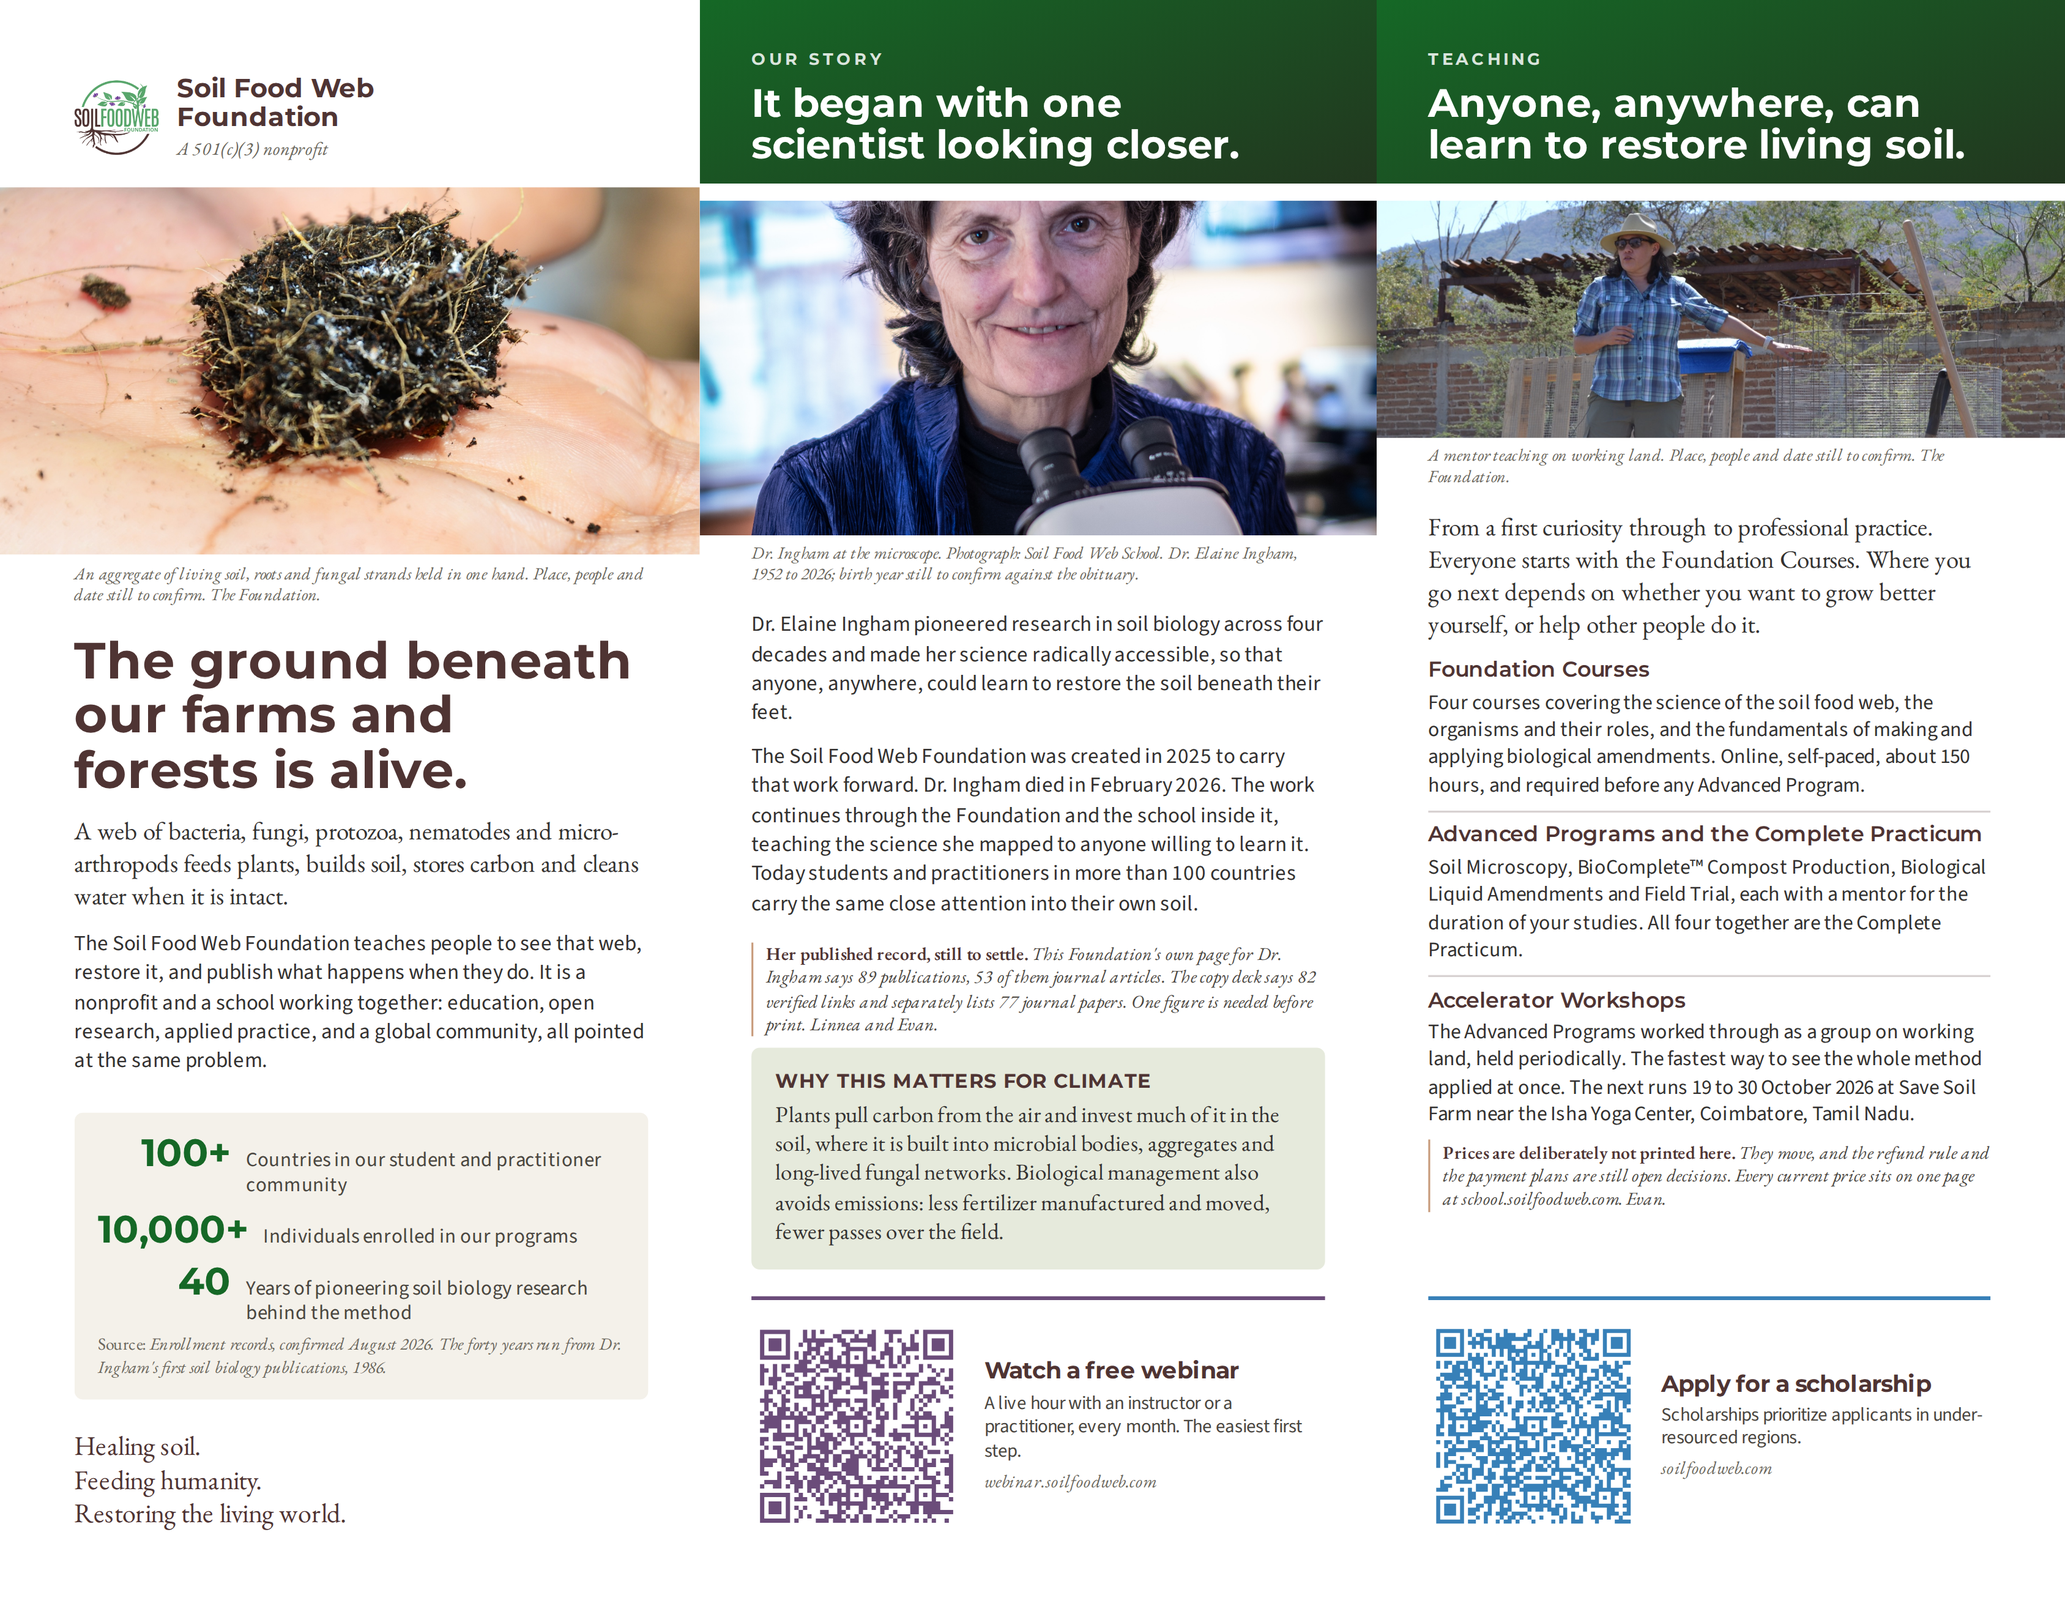
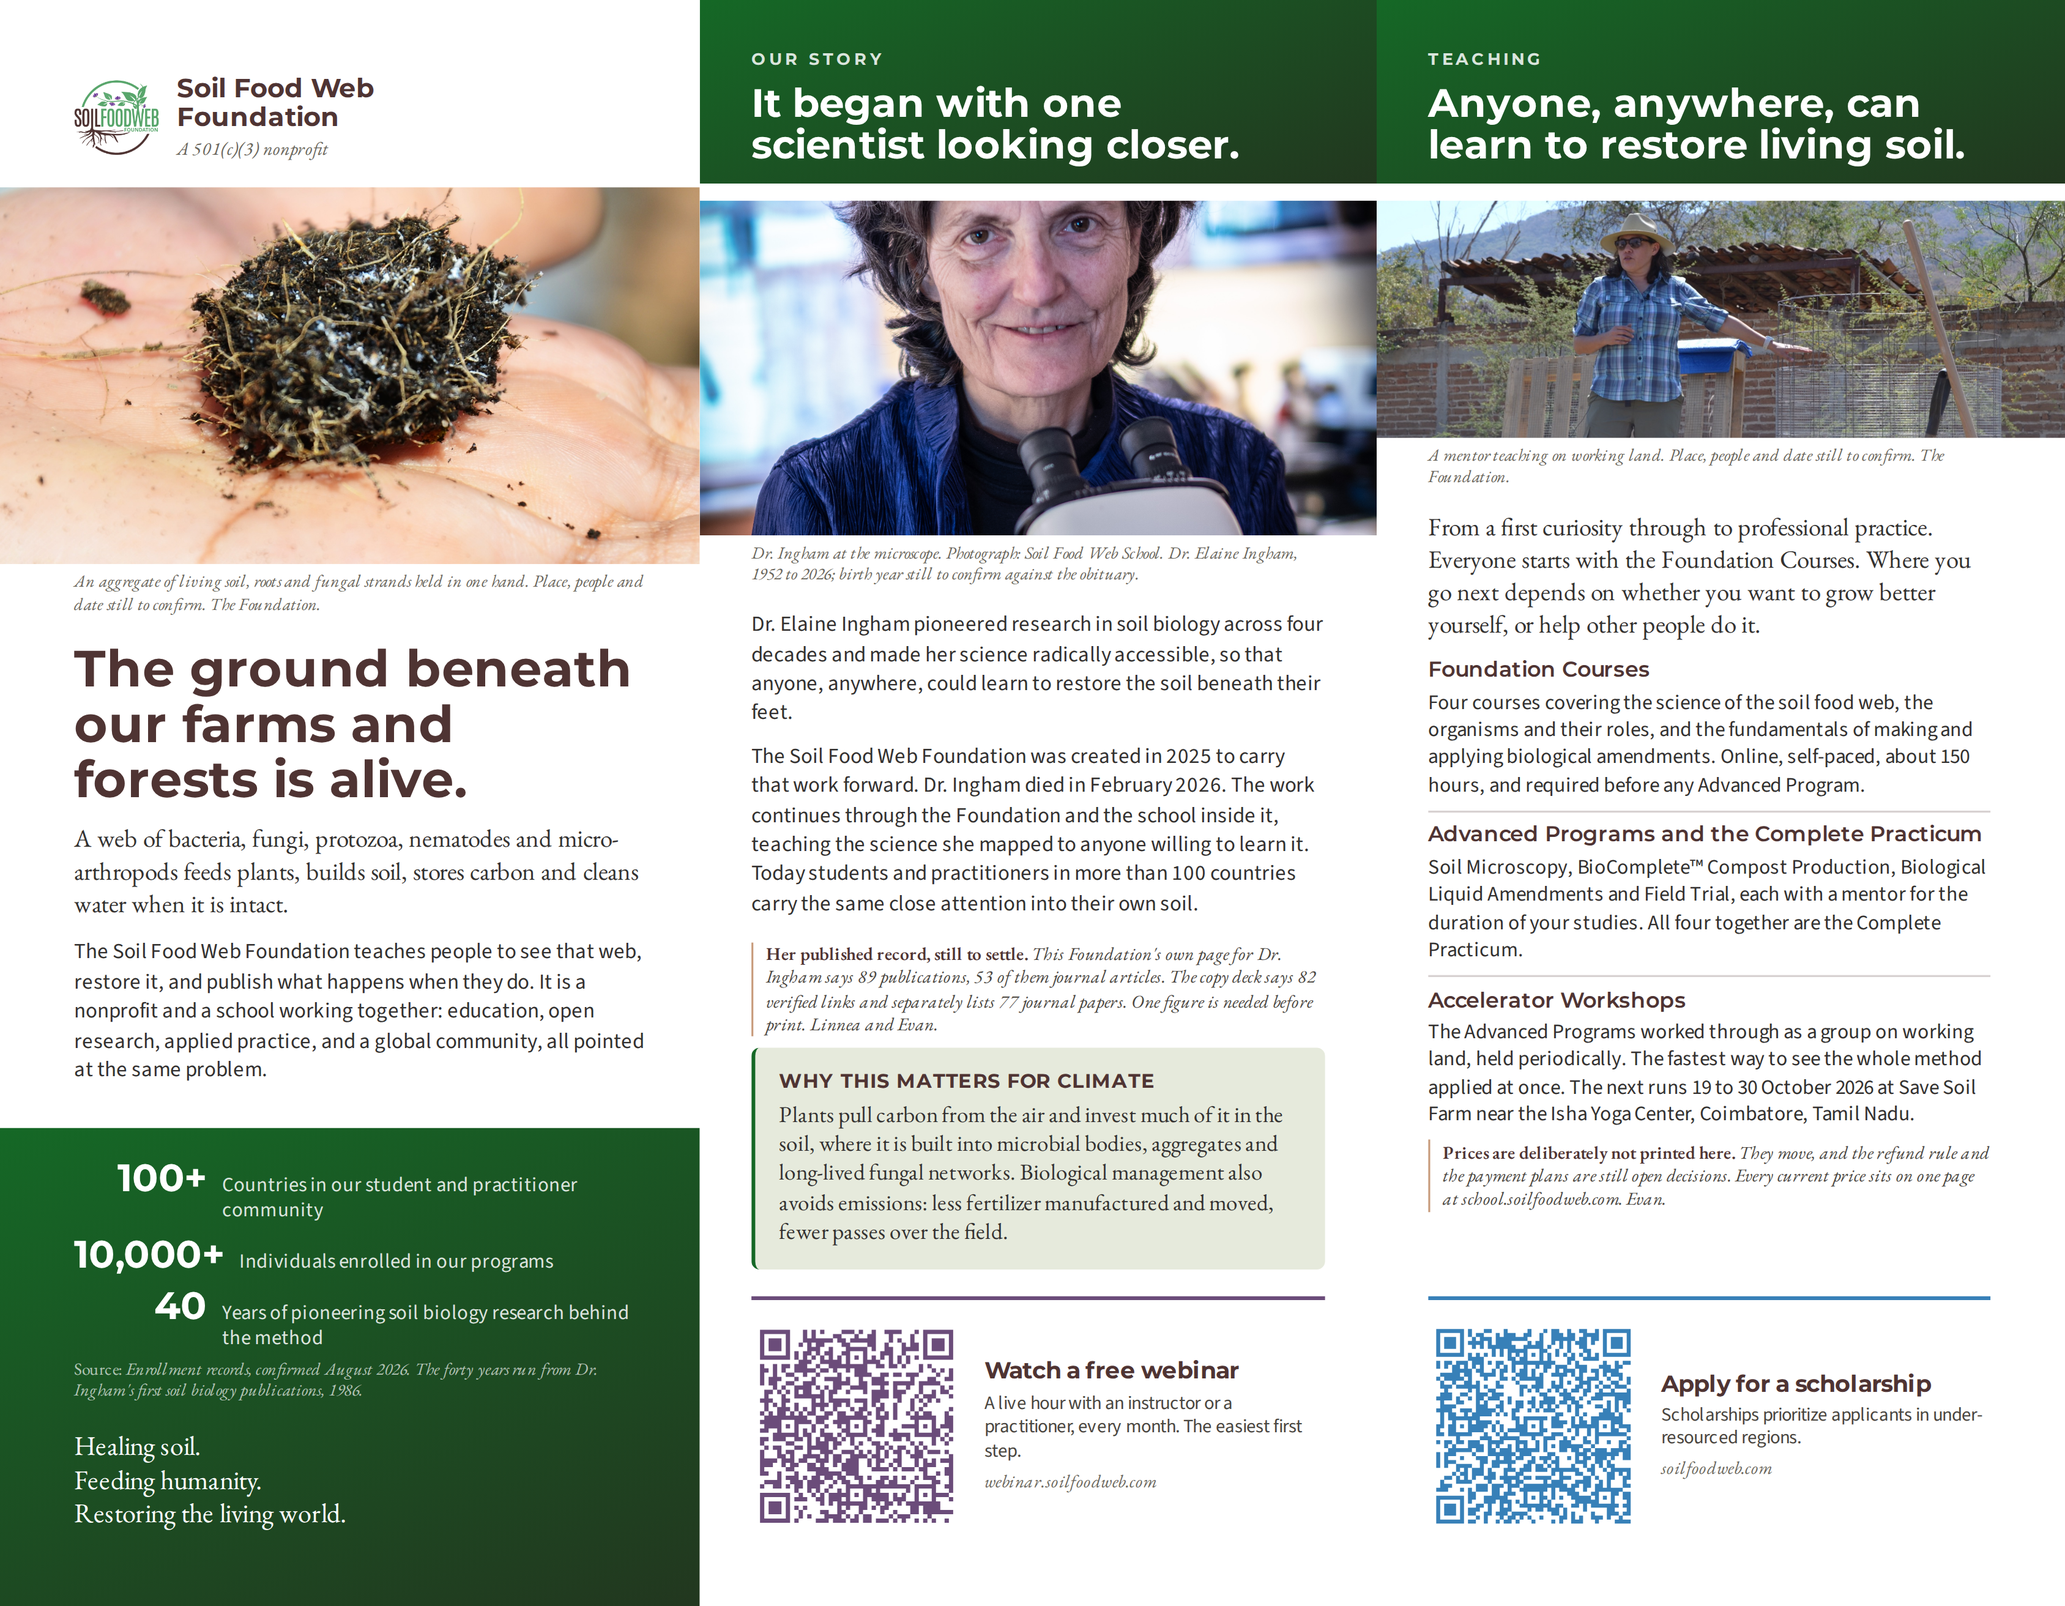
Give the trifold colour fields, a closing block and a fold carry
Design pass on Linnea's direction: background colours, panels, fades, and a
block that carries across the fold. One idea at three sizes, all Food Web
Green into moss.

- .banner, already in, opens each pillar panel reversed out
- .field, new, is a bounded block inside a white panel. The cover's stats and
  tagline now sit in one, bleeding to the foot, so the cover has colour
  instead of ending in white
- .panel--field, new, gives a whole panel to the colour. Panel 6 is green
  throughout: white type, the photo fading into the field, the QR on a white
  tile because a green code on a green panel cannot scan, and the legal block
  and tagline reversed out
- .carry continues panel 6's colour left across the crease so the field starts
  before the fold rather than at it, sized to panel 5's right padding so no
  copy sits on it

A background costs no height, which is what makes a whole green panel possible
on a sheet where four of six panels have under twelve points spare. Bounded
fields do cost their padding: the cover overflowed by 28 points on the first
pass and the photograph came back down to pay for the block.

The photo fade is scoped to the colour panel. On a white panel it landed behind
the caption and turned grey italic into grey on a grey-green band, which is how
it first rendered. Captions now carry a z-index and clear it either way.

Cards are pale green with a green left edge rather than flat cream boxes.
[…]

Changed region(s): [[0.0, 0.125, 0.3422, 1.0], [0.3733, 0.656, 0.6222, 0.781], [0.3111, 0.2187, 0.3422, 0.2499]]

diff --git a/Trifold Design/build/trifold.css b/Trifold Design/build/trifold.css
@@ -226,13 +226,118 @@ h3 {
 .banner .eyebrow--legacy { color: rgba(255, 255, 255, 0.86); }
 .banner h2 { color: #FFFFFF; margin-bottom: 0; line-height: 1.04; }
 
+/* --------------------------------------------------------------------------
+   Colour fields
+   --------------------------------------------------------------------------
+   A field is a block of Food Web Green running to moss, carrying white type.
+   Three sizes of the same idea:
+
+     .banner        the eyebrow and heading at the top of a pillar panel
+     .field         a bounded block inside a white panel
+     .panel--field  a whole panel given over to the colour
+
+   A background costs no height, which is the reason a whole panel can turn
+   green on a sheet where four of the six panels have under 12 points spare.
+   Only the padding of a bounded field is new height. */
+.field {
+  margin-left: calc(var(--pad) * -1);
+  margin-right: calc(var(--pad) * -1);
+  padding: 0.16in var(--pad);
+  background: linear-gradient(158deg, var(--green) 0%, var(--moss) 100%);
+  color: #FFFFFF;
+}
+.panel--first .field { margin-left: calc((var(--pad) + var(--bleed)) * -1); padding-left: calc(var(--pad) + var(--bleed)); }
+.panel--last  .field { margin-right: calc((var(--pad) + var(--bleed)) * -1); padding-right: calc(var(--pad) + var(--bleed)); }
+.field--flush { margin-bottom: calc((var(--pad) + var(--bleed)) * -1); padding-bottom: calc(var(--pad) + var(--bleed)); }
+
+/* A whole panel in the colour. Everything that carries an ink token has to be
+   restated, or it keeps a colour tuned for white paper and disappears. */
+.panel--field {
+  background: linear-gradient(168deg, var(--green) 0%, var(--moss) 108%);
+  color: #FFFFFF;
+}
+.panel--field .banner { background: none; margin-bottom: 0.10in; padding-bottom: 0; }
+.panel--field h2, .panel--field h3 { color: #FFFFFF; }
+.panel--field .caption,
+.panel--field .source      { color: rgba(255, 255, 255, 0.70); }
+.panel--field .legal       { color: rgba(255, 255, 255, 0.82); }
+.panel--field .legal .addr { color: #FFFFFF; }
+.panel--field .tagline     { color: #FFFFFF; }
+.panel--field .hr          { border-top-color: rgba(255, 255, 255, 0.28); }
+.panel--field .qr--green   { border-top-color: rgba(255, 255, 255, 0.55); }
+.panel--field .qr .t       { color: #FFFFFF; }
+.panel--field .qr .d       { color: rgba(255, 255, 255, 0.82); }
+.panel--field .qr .h       { color: rgba(255, 255, 255, 0.66); }
+/* The code is Food Web Green and would vanish on its own panel, so it sits on
+   a white tile. A QR needs dark on light to scan at all. */
+.panel--field .qr img {
+  background: #FFFFFF;
+  padding: 0.055in;
+  border-radius: 0.035in;
+  width: 1.04in; height: 1.04in;
+}
+
+/* The figures block reversed out, for the cover's closing field. */
+.field .figures .n { color: #FFFFFF; }
+.field .figures .l { color: rgba(255, 255, 255, 0.86); }
+.field .source     { color: rgba(255, 255, 255, 0.68); }
+.field .tagline    { color: #FFFFFF; }
+
+/* A photograph in the colour panel fades into the field along its lower edge,
+   so the picture joins the green rather than sitting on it as a hard rectangle.
+
+   Only in the colour panel. On a white panel the same fade lands behind the
+   caption and turns it into grey type on a grey-green band, which is how it
+   first went out. The caption is lifted above the fade either way. */
+.figure { position: relative; }
+.panel--field .figure--fade::after {
+  content: "";
+  position: absolute; left: 0; right: 0; bottom: 0;
+  height: 0.7in;
+  background: linear-gradient(to bottom, rgba(34, 55, 31, 0) 0%, rgba(34, 55, 31, 0.92) 92%);
+  pointer-events: none;
+  z-index: 0;
+}
+.figure figcaption { position: relative; z-index: 1; }
+
+/* The fold carry.
+   Panel 6 is a colour field; this is the same field continuing left past the
+   crease, so the block reads as one shape folded rather than as a panel that
+   happens to be green. Width is panel 5's right padding exactly, so no copy
+   sits on it. Sheet geometry: panel 4 is wide + bleed, panel 5 is wide, so the
+   crease falls at (wide + bleed) + wide from the sheet's left edge. */
+.carry {
+  position: absolute;
+  top: 0;
+  bottom: 0;
+  left: calc(var(--w-wide) + var(--bleed) + var(--w-wide) - var(--pad));
+  width: var(--pad);
+  background: linear-gradient(168deg, var(--green) 0%, var(--moss) 108%);
+  border-top-left-radius: 0.22in;
+  border-bottom-left-radius: 0.22in;
+  z-index: 0;
+}
+.panel { z-index: 1; }
+.panel--field { background: none; }
+.panel--field::before {
+  content: "";
+  position: absolute; inset: 0;
+  background: linear-gradient(168deg, var(--green) 0%, var(--moss) 108%);
+  z-index: -1;
+}
+
 /* Organic Cream as a bounded rectangle behind a group, never as the page. */
 .card {
-  background: var(--panel);
+  background: var(--panel-green);
   padding: 0.12in 0.13in;
   border-radius: 0.045in;
+  border-left: 1.6pt solid var(--green);
 }
-.card--green { background: var(--panel-green); }
+.card--cream { background: var(--panel); border-left-color: var(--tan); }
+.panel--field .card {
+  background: rgba(255, 255, 255, 0.12);
+  border-left-color: rgba(255, 255, 255, 0.65);
+}
 
 /* Photographs. .figure--full reaches both panel edges; add --bleed-l or
    --bleed-r on a panel that sits against the outer trim. */

diff --git a/Trifold Design/build/outside.html b/Trifold Design/build/outside.html
@@ -23,8 +23,8 @@
         </div>
       </div>
 
-      <figure class="figure figure--full" style="margin-top:0.15in">
-        <img src="/img/hand-soil-roots-fungi.jpg" alt="" style="height:2.0in;object-position:50% 46%">
+      <figure class="figure figure--full figure--fade" style="margin-top:0.15in">
+        <img src="/img/hand-soil-roots-fungi.jpg" alt="" style="height:2.05in;object-position:50% 46%">
         <figcaption class="caption">An aggregate of living soil, roots and fungal
           strands held in one hand. Place, people and date still to confirm. The Foundation.</figcaption>
       </figure>
@@ -42,7 +42,7 @@
 
       <div class="spacer"></div>
 
-      <div class="card">
+      <div class="field field--flush">
         <div class="figures">
           <div class="row"><div class="n">100+</div><div class="l">Countries in our student and practitioner community</div></div>
           <div class="row"><div class="n">10,000+</div><div class="l">Individuals enrolled in our programs</div></div>
@@ -50,9 +50,8 @@
         </div>
         <p class="source">Enrollment records, confirmed August 2026. The forty
           years run from Dr. Ingham's first soil biology publications, 1986.</p>
+        <p class="tagline" style="margin-top:0.15in">Healing soil.<br>Feeding humanity.<br>Restoring the living world.</p>
       </div>
-
-      <p class="tagline" style="margin-top:0.16in">Healing soil.<br>Feeding humanity.<br>Restoring the living world.</p>
 
     </section>
 
@@ -64,7 +63,7 @@
         <h2>It began with one scientist looking closer.</h2>
       </div>
 
-      <figure class="figure figure--full">
+      <figure class="figure figure--full figure--fade">
         <img src="/img/Dr Elaine Ingham with Microscope.jpg" alt="" style="height:1.82in;object-position:50% 36%">
         <figcaption class="caption">Dr. Ingham at the microscope. Photograph:
           Soil Food Web School. Dr. Elaine Ingham, 1952 to 2026; birth year
@@ -118,7 +117,7 @@
         <h2>Anyone, anywhere, can learn to restore living soil.</h2>
       </div>
 
-      <figure class="figure figure--full">
+      <figure class="figure figure--full figure--fade">
         <img src="/img/uploads/Loida Teaching 3.JPG" alt="" style="height:1.29in;object-position:50% 22%">
         <figcaption class="caption">A mentor teaching on working land. Place,
           people and date still to confirm. The Foundation.</figcaption>

diff --git a/Trifold Design/build/inside.html b/Trifold Design/build/inside.html
@@ -12,6 +12,12 @@
 <div class="sheet" id="sheet">
   <div class="spread">
 
+    <!-- The colour of panel 6 spills left across the fold, so the field starts
+         before the crease rather than at it. Absolutely placed on the sheet,
+         sitting in panel 5's right padding column, so it never meets copy. -->
+    <div class="carry" aria-hidden="true"></div>
+
+
     <!-- ================= PANEL 4, RESEARCH ================= -->
     <section class="panel panel--wide panel--first" data-panel="4">
 
@@ -20,7 +26,7 @@
         <h2>The science is real, and we are opening it to the world.</h2>
       </div>
 
-      <figure class="figure figure--full">
+      <figure class="figure figure--full figure--fade">
         <img src="/img/Test tubes with sample_.jpg" alt="" style="height:1.18in;object-position:50% 50%">
         <figcaption class="caption">Soil samples beside the microscope. Place,
           people and date still to confirm. The Foundation.</figcaption>
@@ -78,7 +84,7 @@
         <h2>It works on real land, in the hands of real growers.</h2>
       </div>
 
-      <figure class="figure figure--full">
+      <figure class="figure figure--full figure--fade">
         <img src="/img/erc-rancho-cacachilas-agro.jpg" alt="" style="height:1.05in;object-position:50% 58%">
         <figcaption class="caption">Agroecology plots at Rancho Cacachilas.
           Place, people and date still to confirm. The Foundation. This is the
@@ -134,14 +140,14 @@
     </section>
 
     <!-- ================= PANEL 6, COMMUNITY (tuck-in) ================= -->
-    <section class="panel panel--tuck panel--last" data-panel="6">
+    <section class="panel panel--tuck panel--last panel--field" data-panel="6">
 
       <div class="banner">
         <p class="eyebrow">Community</p>
         <h2>A global community makes this work outlast any one of us.</h2>
       </div>
 
-      <figure class="figure figure--full">
+      <figure class="figure figure--full figure--fade">
         <img src="/img/uploads/MAR Group Photo 2.jpg" alt="" style="height:1.45in;object-position:50% 52%">
         <figcaption class="caption">A workshop group around a finished compost
           pile. Which workshop, where and when, and written permission from

diff --git a/Trifold Design/NOTES.md b/Trifold Design/NOTES.md
@@ -83,12 +83,38 @@ panel's accent, so moving a code means regenerating it. Moving the markup alone
 leaves all three mismatched, which is what happened on the first pass of this
 change.
 
-**Both of these want a human decision, not mine.** Two readings are defensible for `--legacy`: it is
-Dr. Elaine's panel, or a QR frame is decoration and the token should stay on editorial content about
-her. If Evan or Linnea prefer the second reading, the fallback is `--tan` #C89B7B, which is already in
-the token list for card borders and dividers and is outside the restricted set. One line changes in
-`build/make-qr.py` and one class in `build/outside.html`. **Nothing here should print until one of
-them signs off on the purple.**
+**Settled, 15 September.** Linnea signed off on the purple and gave design authority for the piece.
+Legacy Purple stays on panel 2: that panel is Dr. Elaine's content, which is the token's documented
+scope, and the QR rule is the only place it appears. Education Blue stays on panel 3 for the same
+reason. Two accents against a green system read as accents rather than noise, and each one carries a
+meaning rather than decorating.
+
+## The colour system
+
+The piece runs on one idea at three sizes, all Food Web Green into moss:
+
+| | What it is | Where |
+| :-- | :-- | :-- |
+| `.banner` | The eyebrow and heading at the top of a pillar panel, reversed out | Panels 2, 3, 4, 5, 6 |
+| `.field` | A bounded block inside a white panel | The cover's closing block |
+| `.panel--field` | A whole panel given to the colour | Panel 6 |
+
+**A background costs no height.** That is why panel 6 can turn green on a sheet where four of the six
+panels have under twelve points spare, and why the banner was affordable at all: its top padding was
+already empty white, so only its bottom padding is new. Bounded fields do cost their padding, which is
+what pushed the cover over on the first pass.
+
+`.carry` continues panel 6's colour left across the crease, so the field starts before the fold rather
+than at it. It is absolutely placed on the sheet, sized to panel 5's right padding exactly, so no copy
+ever sits on it.
+
+The photo fade belongs to `.panel--field` only. On a white panel the same fade lands behind the
+caption and turns grey italic type into grey type on a grey-green band. The caption carries a
+`z-index` so it clears the fade either way.
+
+Cards are pale green with a Food Web Green left edge. `.card--cream` keeps Organic Cream with a tan
+edge for anything that should read as a note rather than a panel. No panel has a cream background:
+cream is still a shape, never the page.
 
 Organic Cream `--panel` #F4F1EA is used only as bounded rectangles: the figures block on panel 1, the
 "On claims" box on panel 4, the directory box on panel 5, the legal block on panel 6. No panel has a
